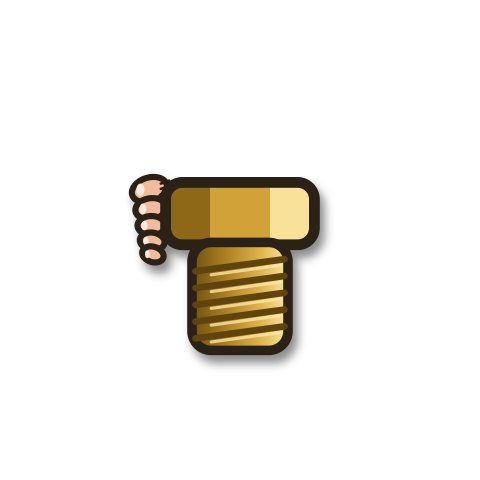
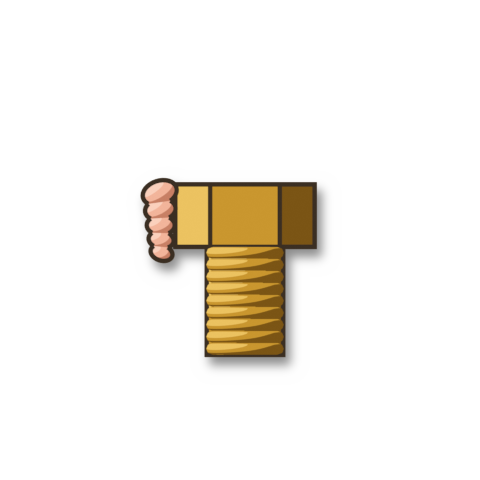
Ноги Лапидуса из Blender
Шестигранник и наружная резьба единого стандарта стыка, как у латунных фитингов,
пальцы — объёмные, в том же мультяшном рендере. Режим feet в art/blender/fittings.py;
art/export.py ноги больше не рисует.

Claude-Session: https://claude.ai/code/session_01KTF9zcDbthXae1taWntBSd

Changed region(s): [[0.25, 0.3438, 0.6875, 0.7812]]

diff --git a/art/blender/fittings.py b/art/blender/fittings.py
@@ -7,7 +7,7 @@ from mathutils import Vector, Matrix
 
 argv = sys.argv[sys.argv.index('--') + 1:] if '--' in sys.argv else []
 OUT = argv[0] if argv else '/tmp/fit'
-ONLY = set(argv[1:]) - {'levels', 'ports'}
+ONLY = set(argv[1:]) - {'levels', 'ports', 'feet'}
 os.makedirs(OUT, exist_ok=True)
 
 LIM = .47
@@ -99,6 +99,8 @@ def mats(steel=False):
     BRASS = toon('brass', lin('#7A5414'), lin('#C9962E'), lin('#EBC260'), lin('#FFF3C2'))
     DARKM = toon('bore', lin('#1E150B'), lin('#2E2112'), lin('#3B2B17'), lin('#4A3720'))
     STEEL = toon('steel', lin('#3E454C'), lin('#7C868F'), lin('#B3BCC5'), lin('#EEF2F6'))
+    global SKIN
+    SKIN = toon('skin', lin('#C77F64'), lin('#F2B49A'), lin('#FAD0BC'), lin('#FFE9DE'))
     if steel:                      # сталь сети: тот же рендер, другой материал
         BRASS = STEEL
 
@@ -230,6 +232,36 @@ def build(ports):
         for d in ds: port(DIRS[d], ports[d], .26)
 
 
+def heel(dr, active):
+    """Ноги Лапидуса: латунный шестигранник и наружная резьба стандарта стыка (как у фитингов), под гайкой — пальцы ног.
+    Строится для выхода вправо, затем поворачивается (вверх/вниз) или отражается (влево), чтобы пальцы оставались снизу."""
+    before = set(bpy.context.scene.objects)
+    o = hexp(.29, -.24, .02)
+    port((1, 0), 'N', .02)
+    toes = ((-.205, .050), (-.135, .044), (-.070, .040), (-.010, .036), (.045, .032))
+    for i, (tx, r) in enumerate(toes):
+        if active:   # растопырены: вытянутые, чуть веером
+            bpy.ops.mesh.primitive_uv_sphere_add(radius=r, location=(tx, -.10, -.335 - r * .4))
+            t = bpy.context.object; t.scale = (1, 1, 1.45); t.rotation_euler = (0, math.radians((i - 2) * 9), 0)
+        else:        # поджаты: круглые
+            bpy.ops.mesh.primitive_uv_sphere_add(radius=r * .9, location=(tx + .01, -.10, -.30))
+            t = bpy.context.object
+        bpy.ops.object.transform_apply(scale=True, rotation=True)
+        bpy.ops.object.shade_smooth(); t.data.materials.append(SKIN)
+    new = [o for o in bpy.context.scene.objects if o not in before and o.type == 'MESH']
+    if dr == 'left':
+        M_ = Matrix.Scale(-1, 4, (1, 0, 0))
+    elif dr in ('up', 'down'):
+        M_ = Matrix.Rotation(math.radians(-90 if dr == 'up' else 90), 4, 'Y')
+    else:
+        return
+    for ob in new:
+        ob.data.transform(M_)
+        if dr == 'left':
+            ob.data.flip_normals()
+        ob.data.update()
+
+
 def level_sigs():
     import re, glob
     root = os.path.dirname(os.path.dirname(os.path.dirname(os.path.abspath(__file__))))
@@ -267,12 +299,17 @@ SET = level_sigs() if 'levels' in argv else {
 JOBS = [(n, p, False) for n, p in SET.items()]
 if 'ports' in argv:
     JOBS = [('port_N_fx', 'N', True), ('port_V_fx', 'V', True)]
+if 'feet' in argv:
+    JOBS = [('feet_%s_%s' % (d, 'on' if a else 'off'), (d, a), 'feet') for d in ('up', 'right', 'down', 'left') for a in (False, True)]
+ONLY.discard('feet')
 ONLY.discard('ports')
 for name, ports, steel in JOBS:
     if ONLY and name not in ONLY:
         continue
-    reset(); mats(steel)
-    if steel:
+    reset(); mats(steel is True)
+    if steel == 'feet':
+        heel(*ports)
+    elif steel:
         fixture_port(ports)
     else:
         build(ports)

diff --git a/art/export.py b/art/export.py
@@ -74,7 +74,7 @@ out('foam', parts.foam(X, Y, CR), 2 * CR, 2 * CR)  # протечка — пен
 for dr in ('right', 'left', 'up', 'down'):
     for act in (True, False):
         sprite('head_%s_%s' % (dr, 'on' if act else 'off'), headL((X, Y), dr, CR, act, False))
-        sprite('feet_%s_%s' % (dr, 'on' if act else 'off'), heelL((X, Y), dr, CR, act, False))
+        # ноги рисует Blender: blender -b -P art/blender/fittings.py -- assets/gfx feet
 out('fluff', fluff2(X, Y, CR), 2 * CR, 2 * CR)
 out('drop', gen.drop(60, 70, 26), 120, 120)
 for k in ('undo', 'restart', 'hint', 'menu'):
